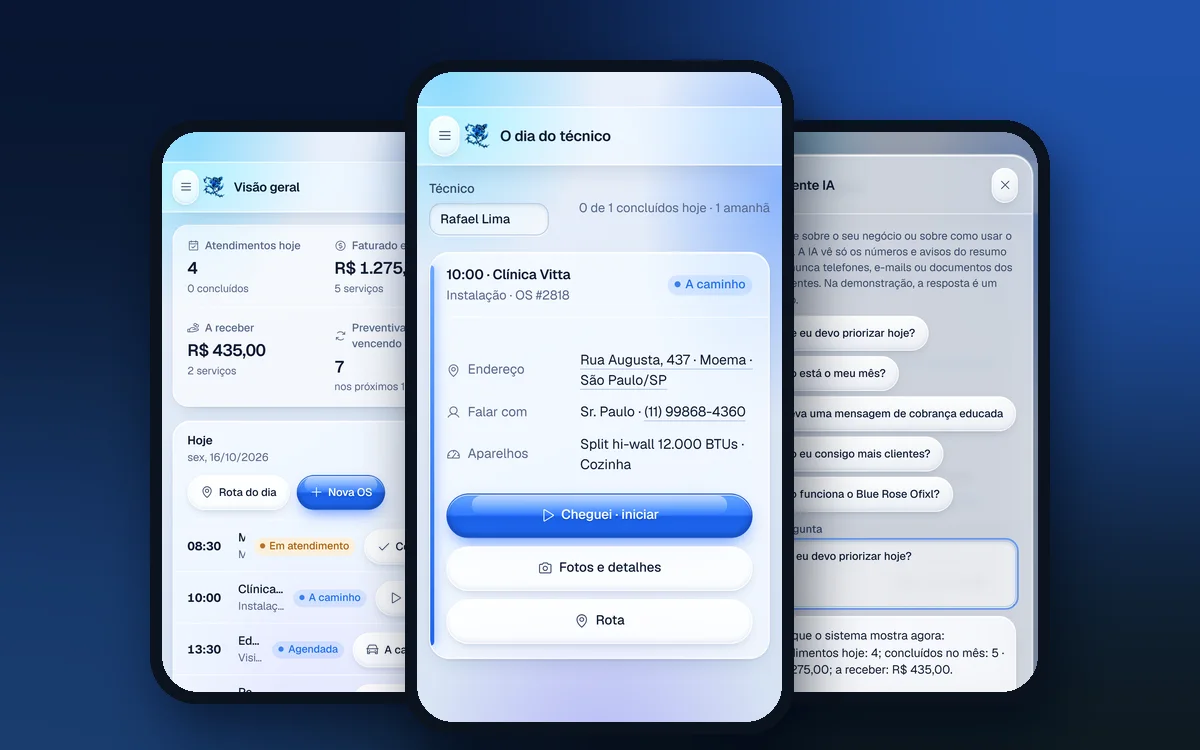
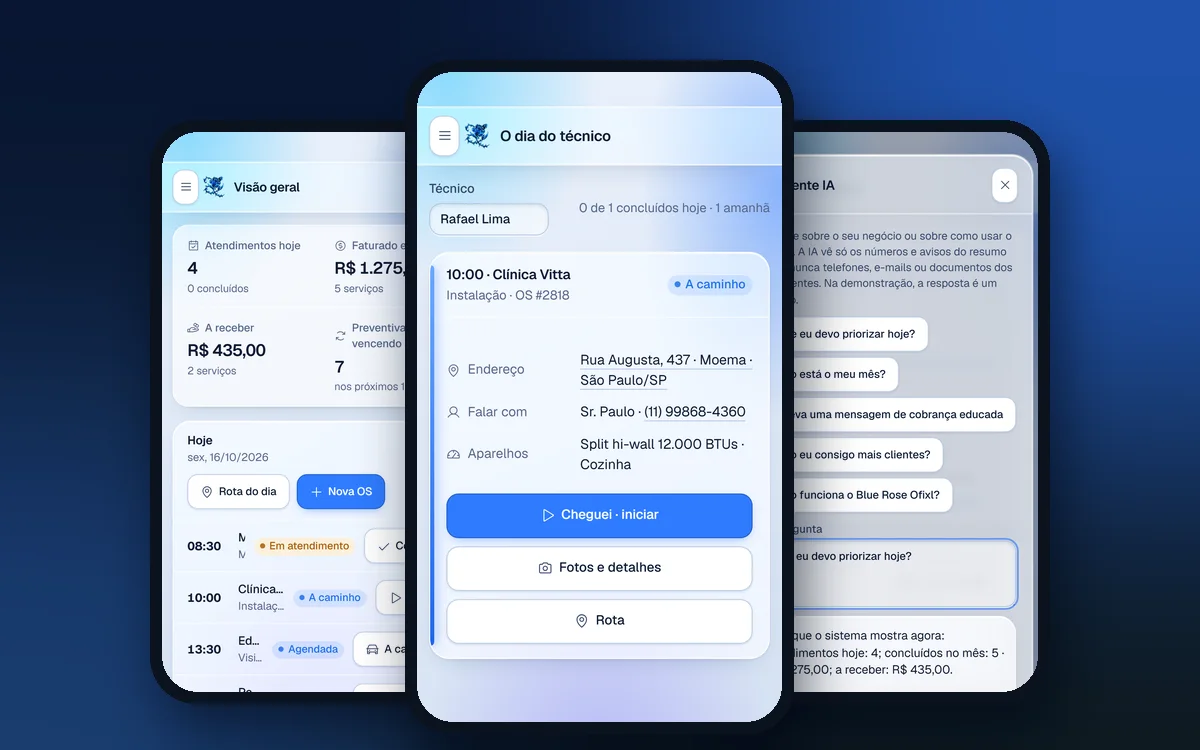
Ofixl em breve e botões sólidos

diff --git a/ofixl.html b/ofixl.html
@@ -23,7 +23,7 @@
 <link rel="icon" type="image/png" sizes="192x192" href="/img/favicon-192.png">
 <link rel="apple-touch-icon" href="/img/apple-touch-icon.png">
 <link rel="preload" href="fonts/geist-latin.woff2" as="font" type="font/woff2" crossorigin>
-<link rel="stylesheet" href="css/site.css?v=41">
+<link rel="stylesheet" href="css/site.css?v=42">
 <script>document.documentElement.classList.add('js')</script>
 <script src="js/contato.js?v=9" defer></script>
 <script src="js/site.js?v=19" defer></script>
@@ -62,21 +62,21 @@
   <nav class="np-trilha wrap" aria-label="Você está em"><a href="./">Início</a> / <a href="sistemas.html">Sistemas</a> / <span>Blue Rose Ofixl</span></nav>
   <section class="np-hero wrap">
     <div class="np-hero-txt">
-      <img src="img/ofixl-logo.png" alt="Blue Rose Ofixl" width="256" height="256" style="width:110px;height:auto;margin-bottom:14px;display:block;background:#0f2a52;border-radius:24px;padding:10px"><span class="eyebrow">Blue Rose Ofixl · app para ar-condicionado, refrigeração, elétrica e hidráulica</span>
+      <img src="img/ofixl-logo.png" alt="Blue Rose Ofixl" width="256" height="256" style="width:110px;height:auto;margin-bottom:14px;display:block;background:#0f2a52;border-radius:24px;padding:10px"><span class="eyebrow">Em breve · Blue Rose Ofixl · app para ar-condicionado, refrigeração, elétrica e hidráulica</span>
       <h1>Do chamado ao PIX, tudo no celular do técnico.</h1>
       <p class="sub">Ordem de serviço, agenda e rota do dia, aviso de técnico a caminho, orçamento que o cliente aprova pelo link, checklist com fotos e cobrança com PIX. E o sistema lembra sozinho da manutenção preventiva de cada aparelho.</p>
-      <div class="np-cta"><a class="btn btn-primary" href="https://play.google.com/store/apps/details?id=com.bluerosestore.ofixl" rel="noopener">Baixar no Google Play</a><a class="btn btn-ghost" href="#precos">Ver os planos</a></div>
-      <p class="np-nota">É um app para celular Android: baixe no Google Play e entre com a sua conta Blue Rose. A assinatura é feita aqui no site, <b>R$&nbsp;49,90/mês</b> para a empresa toda (ou R$&nbsp;479 por ano, 20% a menos), sem fidelidade.</p>
+      <div class="np-cta"><span class="btn btn-primary" aria-disabled="true" style="cursor:default">Em breve no Google Play</span><a class="btn btn-ghost" href="./#contato">Quero ser avisado</a></div>
+      <p class="np-nota">É um app para celular Android. Está em fase final de testes e chega em breve ao Google Play. Quando lançar, a assinatura será feita aqui no site, <b>R$&nbsp;49,90/mês</b> para a empresa toda (ou R$&nbsp;479 por ano, 20% a menos), sem fidelidade.</p>
     </div>
   </section>
   <section class="np-dores wrap"><h2 class="sec-title">O que ele resolve</h2><div class="np-tres"><div><span class="np-num">01</span><p>Pedido perdido no WhatsApp e técnico sem o endereço e o histórico do cliente</p></div><div><span class="np-num">02</span><p>Orçamento que o cliente não responde e preventiva que ninguém lembra de oferecer</p></div><div><span class="np-num">03</span><p>Serviço feito e esquecido de cobrar</p></div></div></section>
   <section class="np-recursos wrap"><h2 class="sec-title">O que vem no Blue Rose Ofixl</h2><div class="np-grade"><article><h3>Modo do técnico</h3><p>O dia de cada técnico com um botão por vez: estou a caminho, cheguei, concluir. Rota no mapa e o telefone do cliente a um toque.</p></article><article><h3>Cliente acompanha pelo link</h3><p>Quando o técnico sai, o cliente recebe o aviso no WhatsApp e acompanha a visita, vê as fotos, o checklist e a garantia.</p></article><article><h3>Orçamento aprovado pelo link</h3><p>O cliente aprova item por item no celular e a OS já vira agendamento. Orçamento parado há 3 dias aparece com lembrete pronto.</p></article><article><h3>Preventiva automática</h3><p>Cada aparelho tem a sua periodicidade. Ao concluir a OS, a próxima manutenção é calculada e o sistema avisa quando oferecer.</p></article><article><h3>Cobrança com PIX</h3><p>O comprovante vai com PIX copia e cola e QR code. Quando o cliente avisa que pagou, você só confere e dá baixa.</p></article><article><h3>Assistente com IA grátis</h3><p>Pergunte o que priorizar no dia, como está o mês ou peça uma mensagem de cobrança: a IA usa os números do seu sistema.</p></article></div>
     <p class="np-extra">E também: cadastro de aparelhos por cliente (marca, modelo, BTUs e local), catálogo de serviços e materiais com estoque que baixa sozinho, avaliação do cliente com estrelas, relatórios por técnico e por tipo de serviço, Painel do dono com cargos e modelos prontos para ar-condicionado, elétrica e hidráulica. Calculadoras no menu: BTUs do ambiente, preço do serviço, carga de gás adicional e fim da garantia.</p></section>
   <section class="np-precos wrap" id="precos"><h2 class="sec-title">Quanto custa</h2><div class="sis-duas">
-    <div><h3>Básico · R$&nbsp;49,90/mês</h3><p class="preco-sub">Para a empresa toda, sem cobrar por OS</p><ul><li><svg class="ico" aria-hidden="true"><use href="img/icones.svg#i-check"/></svg><span>Assine aqui no site e use no app Android com o mesmo e-mail</span></li><li><svg class="ico" aria-hidden="true"><use href="img/icones.svg#i-check"/></svg><span>Você e mais 5 pessoas da equipe (dono, escritório e técnicos), cada uma com o próprio login</span></li><li><svg class="ico" aria-hidden="true"><use href="img/icones.svg#i-check"/></svg><span>Assistente com IA grátis: 20 perguntas por dia</span></li><li><svg class="ico" aria-hidden="true"><use href="img/icones.svg#i-check"/></svg><span>Calculadoras do ramo: BTUs, preço do serviço, carga de gás e garantia</span></li><li><svg class="ico" aria-hidden="true"><use href="img/icones.svg#i-check"/></svg><span>Sem fidelidade: cancele quando quiser</span></li></ul><button type="button" class="btn btn-ghost" data-contratar="a-sis-ofixl" data-mensal="49.9" data-nome="Blue Rose Ofixl · Básico">Assinar o Básico</button><button type="button" class="link-anual" data-contratar="a-sis-ofixl-anual" data-mensal="479" data-nome="Blue Rose Ofixl · Básico anual">ou R$&nbsp;479 por ano <b>−20%</b></button></div>
-    <div class="plano-pro"><h3>Pro · R$&nbsp;109,90/mês</h3><p class="preco-sub">Tudo do Básico, mais:</p><ul><li><svg class="ico" aria-hidden="true"><use href="img/icones.svg#i-check"/></svg><span>Equipe sem limite de técnicos</span></li><li><svg class="ico" aria-hidden="true"><use href="img/icones.svg#i-check"/></svg><span>Avisos e mensagens prontas no WhatsApp: atendimentos de amanhã, preventivas, orçamentos parados e cobranças</span></li><li><svg class="ico" aria-hidden="true"><use href="img/icones.svg#i-check"/></svg><span>Histórico da equipe: quem fez o quê e quando</span></li><li><svg class="ico" aria-hidden="true"><use href="img/icones.svg#i-check"/></svg><span>Impressos só com a sua marca, sem o rodapé da Blue Rose</span></li><li><svg class="ico" aria-hidden="true"><use href="img/icones.svg#i-check"/></svg><span>Suporte prioritário pelo WhatsApp</span></li></ul><button type="button" class="btn btn-primary" data-contratar="a-sis-ofixl-pro" data-mensal="109.9" data-nome="Blue Rose Ofixl Pro">Assinar o Pro</button><button type="button" class="link-anual" data-contratar="a-sis-ofixl-pro-anual" data-mensal="1055" data-nome="Blue Rose Ofixl Pro anual">ou R$&nbsp;1.055 por ano <b>−20%</b></button></div></div></section>
+    <div><h3>Básico · R$&nbsp;49,90/mês</h3><p class="preco-sub">Para a empresa toda, sem cobrar por OS</p><ul><li><svg class="ico" aria-hidden="true"><use href="img/icones.svg#i-check"/></svg><span>Assine aqui no site e use no app Android com o mesmo e-mail</span></li><li><svg class="ico" aria-hidden="true"><use href="img/icones.svg#i-check"/></svg><span>Você e mais 5 pessoas da equipe (dono, escritório e técnicos), cada uma com o próprio login</span></li><li><svg class="ico" aria-hidden="true"><use href="img/icones.svg#i-check"/></svg><span>Assistente com IA grátis: 20 perguntas por dia</span></li><li><svg class="ico" aria-hidden="true"><use href="img/icones.svg#i-check"/></svg><span>Calculadoras do ramo: BTUs, preço do serviço, carga de gás e garantia</span></li><li><svg class="ico" aria-hidden="true"><use href="img/icones.svg#i-check"/></svg><span>Sem fidelidade: cancele quando quiser</span></li></ul><span class="btn btn-ghost" aria-disabled="true" style="opacity:.7;cursor:default">Em breve</span><span class="link-anual" style="cursor:default">ou R$&nbsp;479 por ano <b>−20%</b></span></div>
+    <div class="plano-pro"><h3>Pro · R$&nbsp;109,90/mês</h3><p class="preco-sub">Tudo do Básico, mais:</p><ul><li><svg class="ico" aria-hidden="true"><use href="img/icones.svg#i-check"/></svg><span>Equipe sem limite de técnicos</span></li><li><svg class="ico" aria-hidden="true"><use href="img/icones.svg#i-check"/></svg><span>Avisos e mensagens prontas no WhatsApp: atendimentos de amanhã, preventivas, orçamentos parados e cobranças</span></li><li><svg class="ico" aria-hidden="true"><use href="img/icones.svg#i-check"/></svg><span>Histórico da equipe: quem fez o quê e quando</span></li><li><svg class="ico" aria-hidden="true"><use href="img/icones.svg#i-check"/></svg><span>Impressos só com a sua marca, sem o rodapé da Blue Rose</span></li><li><svg class="ico" aria-hidden="true"><use href="img/icones.svg#i-check"/></svg><span>Suporte prioritário pelo WhatsApp</span></li></ul><span class="btn btn-primary" aria-disabled="true" style="opacity:.7;cursor:default">Em breve</span><span class="link-anual" style="cursor:default">ou R$&nbsp;1.055 por ano <b>−20%</b></span></div></div></section>
   <section class="np-faq wrap"><h2 class="sec-title">Perguntas frequentes</h2><details><summary>É um app ou um site?</summary><p>É só app, para celular Android, baixado no Google Play. Os dados ficam salvos na nuvem: dono, escritório e técnicos veem tudo em tempo real. O site serve para conhecer o app e fazer a assinatura.</p></details><details><summary>A IA é paga à parte?</summary><p>Não. O assistente com IA vem incluso, com 20 perguntas por dia por empresa. Ele usa os números e avisos do resumo do sistema, nunca telefones ou e-mails dos seus clientes.</p></details><details><summary>Serve para elétrica e hidráulica?</summary><p>Sim. Na criação da empresa você escolhe o modelo do seu ramo (ar-condicionado e refrigeração, elétrica ou hidráulica) e o catálogo de serviços já vem montado.</p></details><details><summary>Quantos técnicos posso ter?</summary><p>No Básico, você e mais 5 pessoas, cada uma com o próprio login. No Pro, sem limite.</p></details><details><summary>Tem fidelidade?</summary><p>Não. Você cancela quando quiser em Minha conta, aqui no site.</p></details></section>
-  <section class="np-final wrap"><h2>Leve o escritório no bolso do técnico.</h2><div class="np-cta"><a class="btn btn-primary" href="https://play.google.com/store/apps/details?id=com.bluerosestore.ofixl" rel="noopener">Baixar no Google Play</a><a class="btn btn-ghost" href="./#contato">Falar com a gente</a></div></section>
+  <section class="np-final wrap"><h2>Em breve no Google Play.</h2><div class="np-cta"><span class="btn btn-primary" aria-disabled="true" style="cursor:default">Em breve no Google Play</span><a class="btn btn-ghost" href="./#contato">Falar com a gente</a></div></section>
 </main>
 
   <dialog class="contratar" id="contratar" aria-labelledby="ct-titulo">

diff --git a/demos/sistemas/ofixl/tema.css b/demos/sistemas/ofixl/tema.css
@@ -1,4 +1,4 @@
-/* Blue Rose Ofixl · app de celular: vidro fosco (glassmorphism), vidro líquido nos botões e relevo (skeuomorfismo) nos controles */
+/* Blue Rose Ofixl · app de celular: vidro fosco (glassmorphism) nos painéis, botões sólidos e relevo (skeuomorfismo) nos controles */
 :root[data-produto="ofixl"] {
   --acc: #2f7bff;
   --acc-tx: #fff;
@@ -18,6 +18,7 @@
   --neutro-bg: rgba(255, 255, 255, .55);
   --info: #1f6feb; --info-bg: rgba(47, 123, 255, .13);
   --r1: 12px; --r2: 18px; --r3: 24px;
+  --painel-solido: #ffffff;
   --vidro: blur(22px) saturate(170%);
   --brilho: inset 0 1px 0 rgba(255, 255, 255, .85), inset 0 -1px 0 rgba(255, 255, 255, .25);
   --sombra-1: 0 1px 2px rgba(20, 45, 90, .08), 0 8px 24px -14px rgba(20, 45, 90, .35);
@@ -32,6 +33,7 @@
 :root[data-produto="ofixl"][data-tema="escuro"] {
   --acc: #4d90ff; --acc-tx: #fff;
   --bg: #050c1c;
+  --painel-solido: #172a4d;
   --lateral: rgba(14, 28, 56, .5);
   --painel: rgba(22, 40, 76, .5);
   --painel-2: rgba(16, 32, 62, .55);
@@ -89,32 +91,12 @@
   box-shadow: inset 0 1px 0 rgba(255, 255, 255, .55), inset 0 -2px 3px rgba(0, 0, 0, .3), 0 4px 10px -4px rgba(20, 70, 180, .8);
 }
 
-/* ---------- botões: vidro líquido (brilho na metade de cima, relevo e reflexo) ---------- */
-[data-produto="ofixl"] .btn {
-  height: 36px; padding: 0 14px; border-radius: 999px;
-  background: linear-gradient(180deg, rgba(255, 255, 255, .8), rgba(255, 255, 255, .42));
-  border: 1px solid var(--borda);
-  box-shadow: inset 0 1px 0 rgba(255, 255, 255, .95), inset 0 -2px 4px rgba(30, 60, 120, .08), 0 4px 12px -6px rgba(20, 45, 90, .35);
-  -webkit-backdrop-filter: blur(12px) saturate(160%); backdrop-filter: blur(12px) saturate(160%);
-  transition: transform .18s var(--ease), box-shadow .18s, background .18s;
-}
-[data-produto="ofixl"][data-tema="escuro"] .btn {
-  background: linear-gradient(180deg, rgba(255, 255, 255, .16), rgba(255, 255, 255, .05));
-  box-shadow: inset 0 1px 0 rgba(255, 255, 255, .22), inset 0 -2px 4px rgba(0, 0, 0, .25), 0 4px 12px -6px rgba(0, 0, 0, .6);
-}
-[data-produto="ofixl"] .btn:hover { transform: translateY(-1px); }
-[data-produto="ofixl"] .btn:active { transform: translateY(1px) scale(.98); box-shadow: inset 0 2px 5px rgba(20, 45, 90, .22); }
-[data-produto="ofixl"] .btn.pri {
-  position: relative; overflow: hidden; border-color: rgba(20, 70, 190, .6);
-  background: linear-gradient(180deg, #6aa8ff 0%, #2f7bff 48%, #1a5ee6 52%, #1f69f0 100%);
-  box-shadow: inset 0 1px 0 rgba(255, 255, 255, .7), inset 0 -3px 6px rgba(0, 20, 80, .35), 0 8px 20px -8px rgba(30, 100, 255, .9);
-  text-shadow: 0 1px 1px rgba(0, 20, 80, .35);
-}
-[data-produto="ofixl"] .btn.pri::after {
-  content: ''; position: absolute; left: 8%; right: 8%; top: 1px; height: 46%; border-radius: 999px;
-  background: linear-gradient(180deg, rgba(255, 255, 255, .55), rgba(255, 255, 255, 0)); pointer-events: none;
-}
-[data-produto="ofixl"] .btn.pri:hover { background: linear-gradient(180deg, #7bb3ff 0%, #3d86ff 48%, #2468ee 52%, #2a72f5 100%); }
+/* ---------- botões sólidos, sem efeito de vidro ---------- */
+[data-produto="ofixl"] .btn { height: 36px; padding: 0 14px; border-radius: 12px; background: var(--painel-solido); border: 1px solid var(--borda-2); box-shadow: 0 1px 2px rgba(20, 45, 90, .12); }
+[data-produto="ofixl"] .btn:hover { background: color-mix(in srgb, var(--painel-solido) 92%, var(--acc)); }
+[data-produto="ofixl"] .btn:active { transform: translateY(1px); }
+[data-produto="ofixl"] .btn.pri { background: var(--acc); border-color: color-mix(in srgb, var(--acc) 80%, #000); color: var(--acc-tx); box-shadow: 0 4px 12px -6px rgba(30, 100, 255, .7); }
+[data-produto="ofixl"] .btn.pri:hover { background: color-mix(in srgb, var(--acc) 88%, #000); }
 
 /* ---------- controles com relevo ---------- */
 [data-produto="ofixl"] input:not([type=checkbox]):not([type=radio]):not([type=range]),
@@ -175,6 +157,6 @@
 .of-soapp img { border-radius: 28px; box-shadow: 0 20px 50px -16px rgba(30, 120, 255, .8); }
 .of-soapp h1 { font-size: 24px; max-width: 22ch; text-wrap: balance; }
 .of-soapp p { max-width: 42ch; color: #b3c4e2; font-size: 15px; line-height: 1.55; }
-.of-soapp .of-play { position: relative; overflow: hidden; margin-top: 6px; padding: 14px 26px; border-radius: 999px; color: #fff; font-weight: 600; text-decoration: none;
-  background: linear-gradient(180deg, #6aa8ff 0%, #2f7bff 48%, #1a5ee6 52%, #1f69f0 100%); box-shadow: inset 0 1px 0 rgba(255, 255, 255, .7), inset 0 -3px 6px rgba(0, 20, 80, .35), 0 10px 24px -8px rgba(30, 100, 255, .9); }
+.of-soapp .of-play { margin-top: 6px; padding: 14px 26px; border-radius: 12px; opacity: .75; cursor: default; color: #fff; font-weight: 600; text-decoration: none;
+  background: #2f7bff; }
 .of-soapp .of-volta { color: #b3c4e2; font-size: 14px; }

diff --git a/css/site.css b/css/site.css
@@ -3,7 +3,7 @@
    -------------------------------------------------------------
    Tipografia: Geist (texto e títulos) + Geist Mono (dados, código)
    Cor: grafite + um único destaque azul (a cor da marca)
-   Formas: botões em pílula de vidro líquido, campos 10px, painéis 16px de vidro
+   Formas: botões e campos 10px, painéis 16px de vidro
    Tema: segue o sistema (claro/escuro)
    Camadas (z-index): 10 conteúdo elevado, 50 navegação, 60 menu móvel
    ============================================================= */
@@ -1485,8 +1485,8 @@ section.caminhos { padding: 8px 0 clamp(40px, 5vw, 64px); }
 .conta-direto { display: block; margin: 12px auto 0; }
 
 /* =============================================================
-   Vidro (glassmorphism), vidro líquido nos botões e relevo leve
-   (skeuomorfismo) nos cartões. Camada final: só muda superfícies.
+   Vidro (glassmorphism) e relevo leve nos cartões e no cabeçalho.
+   Botões continuam sólidos. Camada final: só muda superfícies.
    ============================================================= */
 :root {
   --vidro: rgba(26, 34, 50, 0.48);
@@ -1516,17 +1516,6 @@ html[data-theme="light"] body::before {
 }
 /* cabeçalho de vidro */
 .nav { background: color-mix(in srgb, var(--bg) 55%, transparent); border-bottom: 1px solid var(--vidro-borda); box-shadow: var(--vidro-brilho); -webkit-backdrop-filter: var(--desfoque); backdrop-filter: var(--desfoque); }
-/* botão principal: vidro líquido (reflexo na metade de cima e relevo embaixo) */
-.btn-primary {
-  position: relative; overflow: hidden; border-radius: 999px;
-  background: linear-gradient(180deg, #6f9dff 0%, #3d6bf0 50%, #2f5be0 51%, #3563ea 100%);
-  box-shadow: inset 0 1px 0 rgba(255, 255, 255, 0.55), inset 0 -3px 6px rgba(0, 20, 80, 0.3), 0 12px 30px -12px rgba(61, 107, 240, 0.9);
-}
-.btn-primary::after { content: ''; position: absolute; left: 10%; right: 10%; top: 1px; height: 45%; border-radius: 999px; background: linear-gradient(180deg, rgba(255, 255, 255, 0.42), rgba(255, 255, 255, 0)); pointer-events: none; }
-.btn-primary:hover { background: linear-gradient(180deg, #7eaaff 0%, #4a77f5 50%, #3a66e8 51%, #4170f0 100%); }
-html[data-theme="light"] .btn-primary { background: linear-gradient(180deg, #5c8bff 0%, #2b57d9 50%, #2450cc 51%, #2b57d9 100%); }
-/* botão secundário: vidro */
-.btn-ghost { border-radius: 999px; background: var(--vidro); border-color: var(--vidro-borda); box-shadow: var(--vidro-brilho); -webkit-backdrop-filter: blur(10px); backdrop-filter: blur(10px); }
 /* cartões de vidro com relevo */
 .sis, .prod-c, .sis-duas > div, .np-grade, .np-faq details {
   background: var(--vidro); border-color: var(--vidro-borda);

diff --git a/sistemas.html b/sistemas.html
@@ -24,7 +24,7 @@
 <link rel="icon" type="image/png" sizes="192x192" href="/img/favicon-192.png">
 <link rel="apple-touch-icon" href="/img/apple-touch-icon.png">
 <link rel="preload" href="fonts/geist-latin.woff2" as="font" type="font/woff2" crossorigin>
-<link rel="stylesheet" href="css/site.css?v=41">
+<link rel="stylesheet" href="css/site.css?v=42">
 <script>document.documentElement.classList.add('js')</script>
 <script src="js/contato.js?v=9" defer></script>
 <script src="js/site.js?v=19" defer></script>
@@ -280,14 +280,13 @@
       <article class="sis reveal" id="ofixl" style="--sis:#1f6feb;--i:1">
         <a class="sis-foto" href="ofixl.html"><img src="img/sistemas/ofixl.webp" alt="Tela do Blue Rose Ofixl" width="1200" height="750" loading="lazy"></a>
         <div class="sis-corpo">
-          <span class="sis-tag">Serviços técnicos em campo · app Android</span>
+          <span class="sis-tag">Serviços técnicos em campo · app Android · em breve</span>
           <h2><a href="ofixl.html">Blue Rose Ofixl</a></h2>
           <p class="sis-para">Para ar-condicionado, refrigeração, elétrica e hidráulica.</p>
           <ul><li><svg class="ico" aria-hidden="true"><use href="img/icones.svg#i-check"/></svg><span>Técnico no celular: a caminho, iniciar e concluir</span></li><li><svg class="ico" aria-hidden="true"><use href="img/icones.svg#i-check"/></svg><span>Orçamento aprovado pelo link e cobrança com PIX</span></li><li><svg class="ico" aria-hidden="true"><use href="img/icones.svg#i-check"/></svg><span>Preventiva automática de cada aparelho</span></li><li><svg class="ico" aria-hidden="true"><use href="img/icones.svg#i-check"/></svg><span>Assistente com IA grátis</span></li></ul>
           <div class="sis-precos"><div><small>Básico</small><b>R$&nbsp;49,90<small>/mês</small></b><span>ou R$&nbsp;479 por ano</span></div><div><small>Pro</small><b>R$&nbsp;109,90<small>/mês</small></b><span>equipe sem limite</span></div></div>
           <div class="sis-botoes">
-            <a class="btn btn-ghost" href="https://play.google.com/store/apps/details?id=com.bluerosestore.ofixl" rel="noopener">Baixar no Google Play</a>
-            <button type="button" class="btn btn-primary" data-contratar="a-sis-ofixl" data-mensal="49.9" data-nome="Blue Rose Ofixl · Básico">Assinar</button>
+            <span class="btn btn-ghost" aria-disabled="true" style="opacity:.7;cursor:default">Em breve no Google Play</span>
           </div>
           <a class="sis-mais" href="ofixl.html">Tudo sobre o Blue Rose Ofixl →</a>
         </div>

diff --git a/index.html b/index.html
@@ -27,7 +27,7 @@
 <link rel="icon" type="image/png" sizes="192x192" href="/img/favicon-192.png">
 <link rel="apple-touch-icon" href="/img/apple-touch-icon.png">
 <link rel="preload" href="fonts/geist-latin.woff2" as="font" type="font/woff2" crossorigin>
-<link rel="stylesheet" href="css/site.css?v=41">
+<link rel="stylesheet" href="css/site.css?v=42">
 <script>document.documentElement.classList.add('js')</script>
 <script src="js/contato.js?v=9" defer></script>
 <script src="js/leads-config.js?v=6" defer></script>
@@ -147,11 +147,11 @@
         <article class="prod-c reveal" data-cat="outros" hidden style="--sis:#1f6feb">
           <a class="prod-foto" href="ofixl.html"><img src="img/sistemas/ofixl.webp" width="1200" height="750" loading="lazy" alt="Tela do Blue Rose Ofixl"></a>
           <div class="prod-txt">
-            <span class="prod-tag">Serviços técnicos · app Android</span>
+            <span class="prod-tag">Serviços técnicos · app Android · em breve</span>
             <h3><a href="ofixl.html">Blue Rose Ofixl</a></h3>
             <p>Para ar-condicionado, refrigeração, elétrica e hidráulica.</p>
             <p class="prod-preco"><b>R$&nbsp;49,90</b>/mês <span>ou R$&nbsp;479 por ano</span></p>
-            <div class="prod-links"><a href="https://play.google.com/store/apps/details?id=com.bluerosestore.ofixl" rel="noopener">Google Play <svg class="ico" aria-hidden="true"><use href="img/icones.svg#i-arrow-right"/></svg></a><a href="ofixl.html">Detalhes</a></div>
+            <div class="prod-links"><span>Em breve no Google Play</span><a href="ofixl.html">Detalhes</a></div>
           </div>
         </article>
         <article class="prod-c reveal" data-cat="outros" hidden style="--sis:#1a47a8">

diff --git a/demos/sistemas/ofixl/so-app.js b/demos/sistemas/ofixl/so-app.js
@@ -2,7 +2,6 @@
    No navegador comum aparece a tela para baixar o app. */
 (function () {
   var eu = document.currentScript, modulo = eu.getAttribute('data-app');
-  var PLAY_URL = 'https://play.google.com/store/apps/details?id=com.bluerosestore.ofixl';
   var noApp = false;
   try {
     if (new URLSearchParams(location.search).get('origem') === 'play') localStorage.setItem('nexo-play', '1');
@@ -13,14 +12,14 @@
   if (noApp) { import(modulo); return; }
 
   var raiz = eu.getAttribute('data-raiz') || '../../';
-  document.title = 'Blue Rose Ofixl · baixe o app';
+  document.title = 'Blue Rose Ofixl · em breve';
   var ok = function () {
     document.body.innerHTML =
       '<main class="of-soapp">' +
       '<img src="' + raiz + 'img/ofixl-logo.png" alt="Blue Rose Ofixl" width="120" height="120">' +
-      '<h1>O Blue Rose Ofixl é um app de celular</h1>' +
-      '<p>Ordem de serviço, agenda do técnico, preventivas automáticas e cobrança com PIX, tudo no app. Baixe no Google Play e entre com a sua conta Blue Rose.</p>' +
-      '<a class="of-play" href="' + PLAY_URL + '">Baixar no Google Play</a>' +
+      '<h1>Blue Rose Ofixl: em breve no Google Play</h1>' +
+      '<p>Ordem de serviço, agenda do técnico, preventivas automáticas e cobrança com PIX, tudo no app de celular. Estamos na fase final de testes: em breve ele chega ao Google Play.</p>' +
+      '<span class="of-play">Em breve no Google Play</span>' +
       '<a class="of-volta" href="' + raiz + 'ofixl.html">Conhecer o app e os planos</a>' +
       '</main>';
   };

diff --git a/app/ofixl/index.html b/app/ofixl/index.html
@@ -14,11 +14,11 @@
 <meta name="apple-mobile-web-app-capable" content="yes">
 <meta name="apple-mobile-web-app-title" content="Blue Rose Ofixl">
 <link rel="stylesheet" href="../../demos/sistemas/base/nexo.css">
-<link rel="stylesheet" href="../../demos/sistemas/ofixl/tema.css?v=2">
+<link rel="stylesheet" href="../../demos/sistemas/ofixl/tema.css?v=3">
 <script src="../config.js"></script>
 <script src="../../demos/sistemas/base/supabase.js"></script>
 <script src="../pwa.js" defer></script>
-<script src="../../demos/sistemas/ofixl/so-app.js" data-app="./app.js" data-raiz="../../"></script>
+<script src="../../demos/sistemas/ofixl/so-app.js?v=2" data-app="./app.js" data-raiz="../../"></script>
 </head>
 <body></body>
 </html>

diff --git a/demos/sistemas/ofixl/index.html b/demos/sistemas/ofixl/index.html
@@ -9,8 +9,8 @@
 <title>Blue Rose Ofixl · serviços técnicos em campo</title>
 <link rel="icon" href="logo.png" type="image/png">
 <link rel="stylesheet" href="../base/nexo.css">
-<link rel="stylesheet" href="tema.css?v=2">
-<script src="so-app.js" data-app="./app.js" data-raiz="../../../"></script>
+<link rel="stylesheet" href="tema.css?v=3">
+<script src="so-app.js?v=2" data-app="./app.js" data-raiz="../../../"></script>
 </head>
 <body><p style="padding:24px;font-family:system-ui">Carregando o Blue Rose Ofixl…</p></body>
 </html>

diff --git a/exemplos.html b/exemplos.html
@@ -23,7 +23,7 @@
 <link rel="icon" type="image/png" sizes="192x192" href="/img/favicon-192.png">
 <link rel="apple-touch-icon" href="/img/apple-touch-icon.png">
 <link rel="preload" href="fonts/geist-latin.woff2" as="font" type="font/woff2" crossorigin>
-<link rel="stylesheet" href="css/site.css?v=41">
+<link rel="stylesheet" href="css/site.css?v=42">
 <script>document.documentElement.classList.add('js')</script>
 <script src="js/contato.js?v=9" defer></script>
 <script src="sites/catalogo.js?v=8" defer></script>

diff --git a/projetos.html b/projetos.html
@@ -24,7 +24,7 @@
 <link rel="icon" type="image/png" sizes="192x192" href="/img/favicon-192.png">
 <link rel="apple-touch-icon" href="/img/apple-touch-icon.png">
 <link rel="preload" href="fonts/geist-latin.woff2" as="font" type="font/woff2" crossorigin>
-<link rel="stylesheet" href="css/site.css?v=41">
+<link rel="stylesheet" href="css/site.css?v=42">
 <script>document.documentElement.classList.add('js')</script>
 <script src="js/contato.js?v=9" defer></script>
 <script src="sites/catalogo.js?v=8" defer></script>

diff --git a/checklist.html b/checklist.html
@@ -23,7 +23,7 @@
 <link rel="icon" type="image/png" sizes="192x192" href="/img/favicon-192.png">
 <link rel="apple-touch-icon" href="/img/apple-touch-icon.png">
 <link rel="preload" href="fonts/geist-latin.woff2" as="font" type="font/woff2" crossorigin>
-<link rel="stylesheet" href="css/site.css?v=41">
+<link rel="stylesheet" href="css/site.css?v=42">
 <script>document.documentElement.classList.add('js')</script>
 <script src="js/contato.js?v=9" defer></script>
 <script src="js/site.js?v=19" defer></script>

diff --git a/conta.html b/conta.html
@@ -24,7 +24,7 @@
 <link rel="icon" type="image/png" sizes="192x192" href="/img/favicon-192.png">
 <link rel="apple-touch-icon" href="/img/apple-touch-icon.png">
 <link rel="preload" href="fonts/geist-latin.woff2" as="font" type="font/woff2" crossorigin>
-<link rel="stylesheet" href="css/site.css?v=41">
+<link rel="stylesheet" href="css/site.css?v=42">
 <script>document.documentElement.classList.add('js')</script>
 <script src="js/contato.js?v=9" defer></script>
 <script src="js/site.js?v=19" defer></script>
